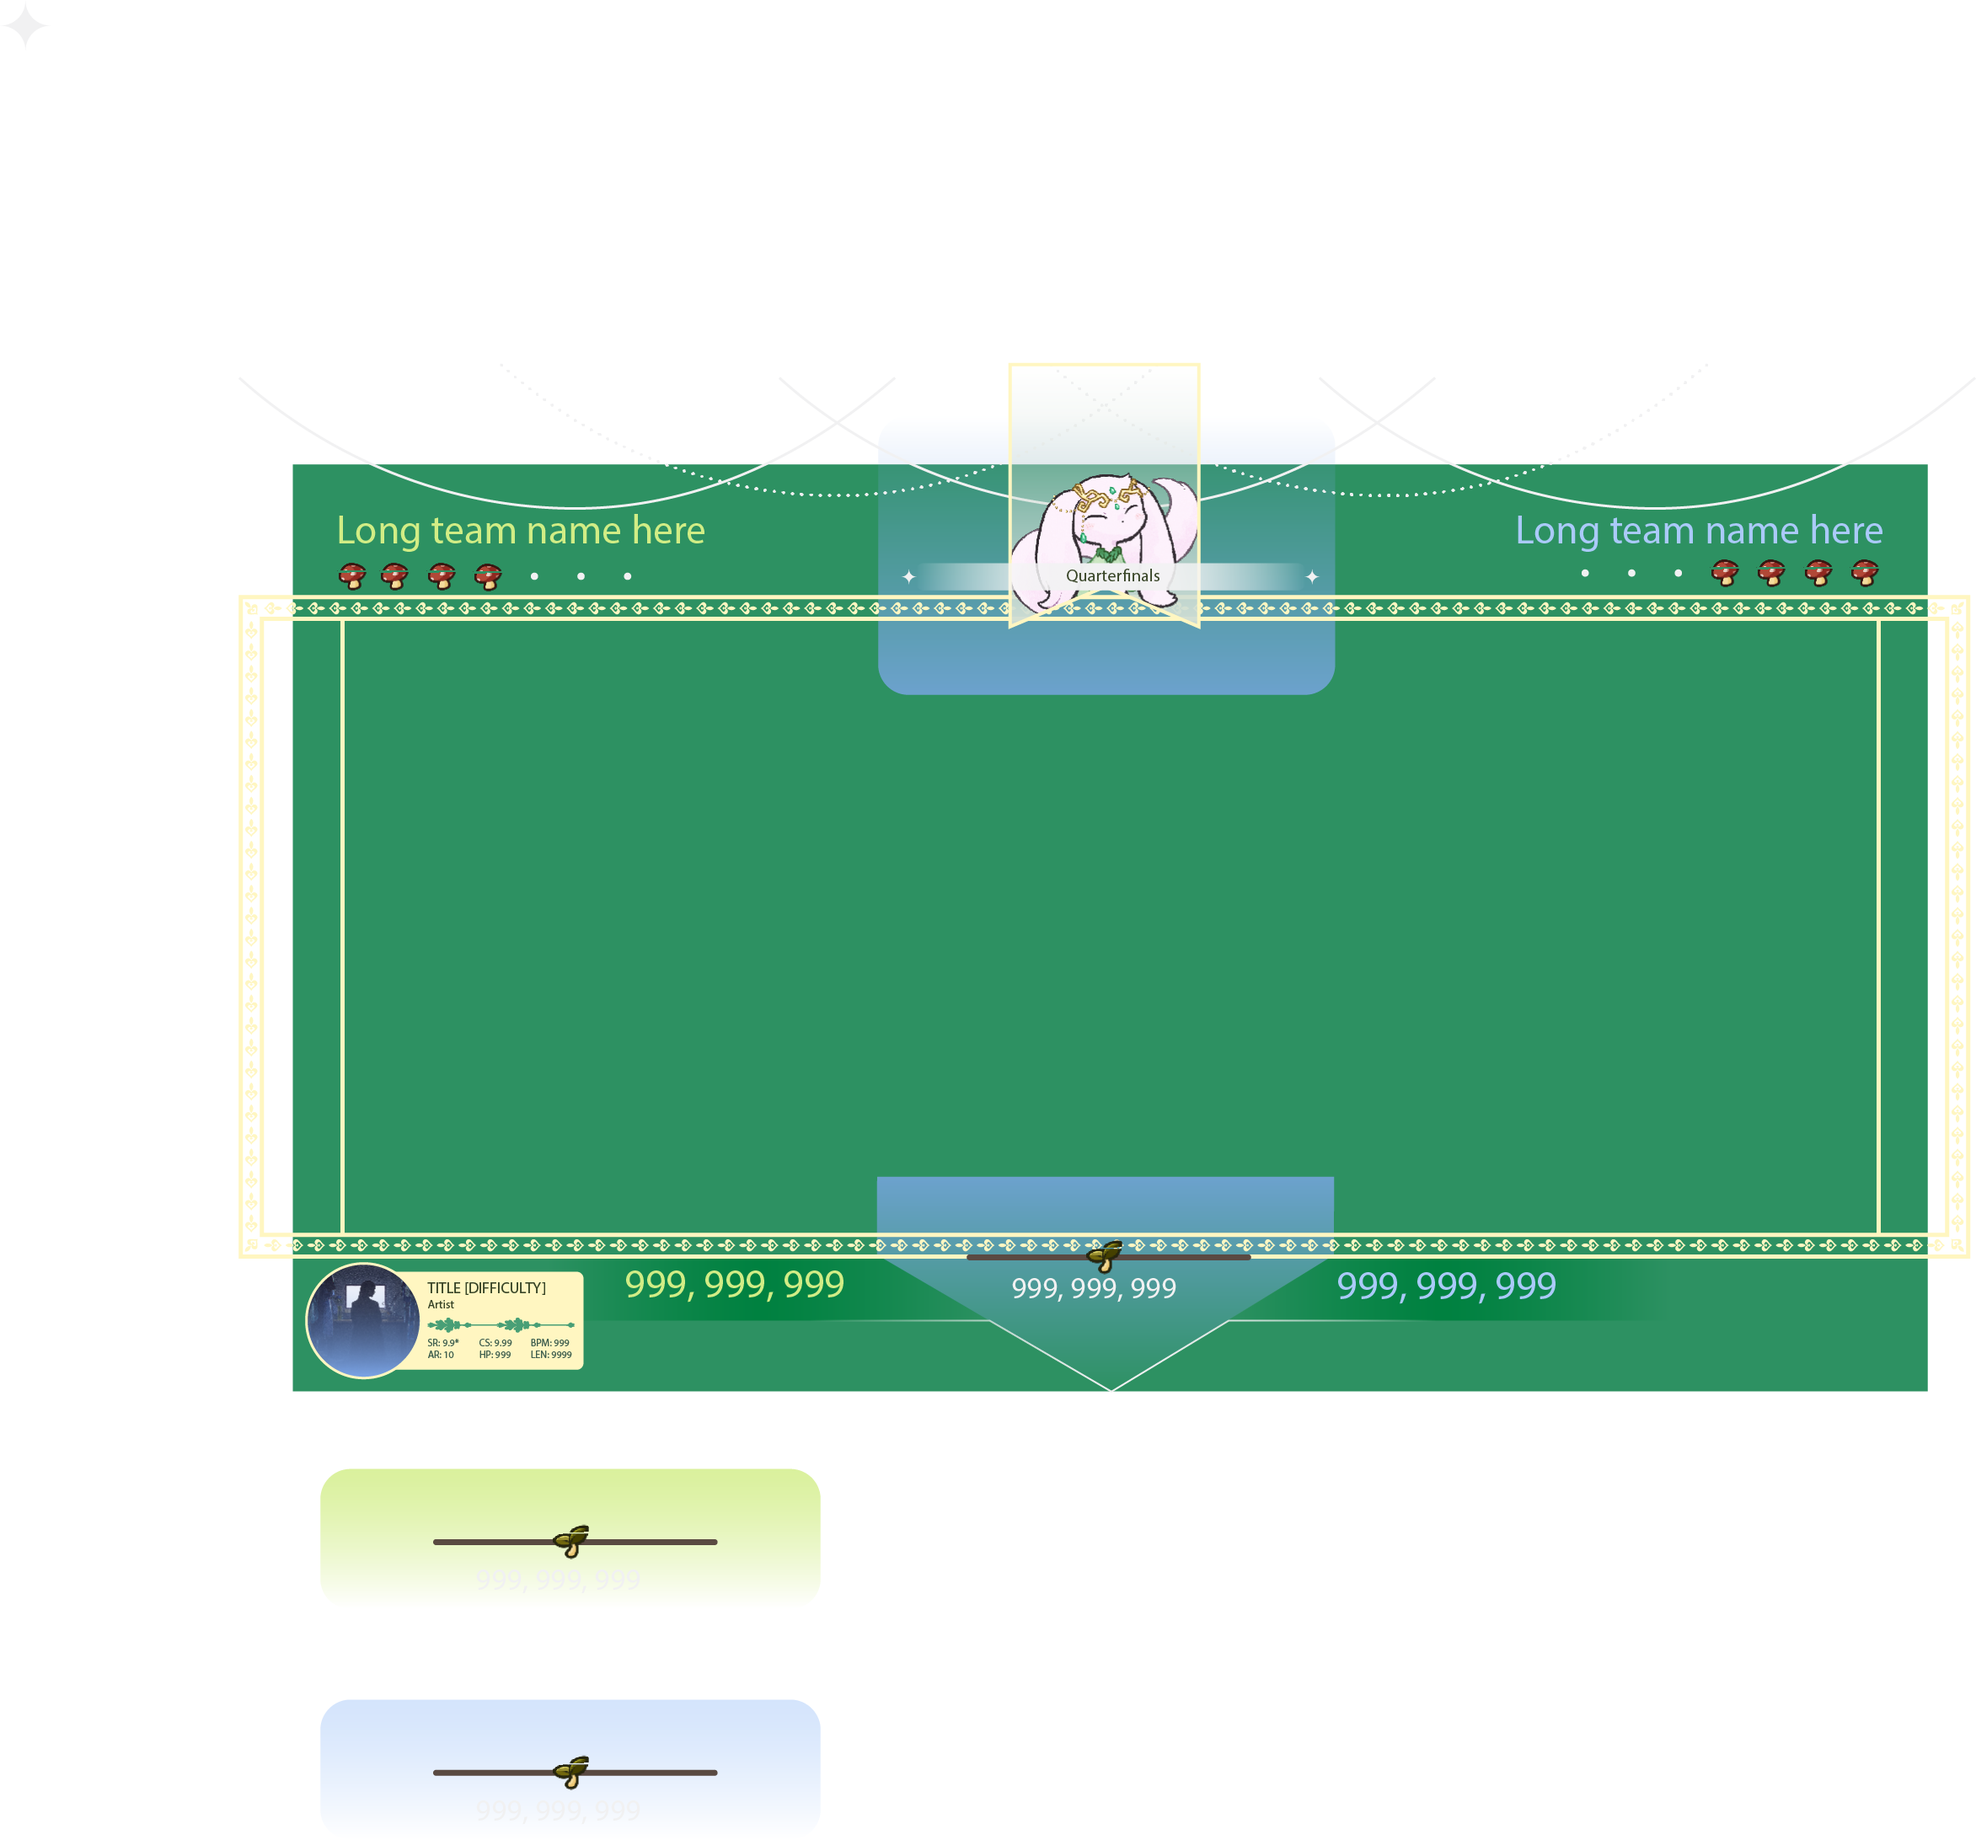
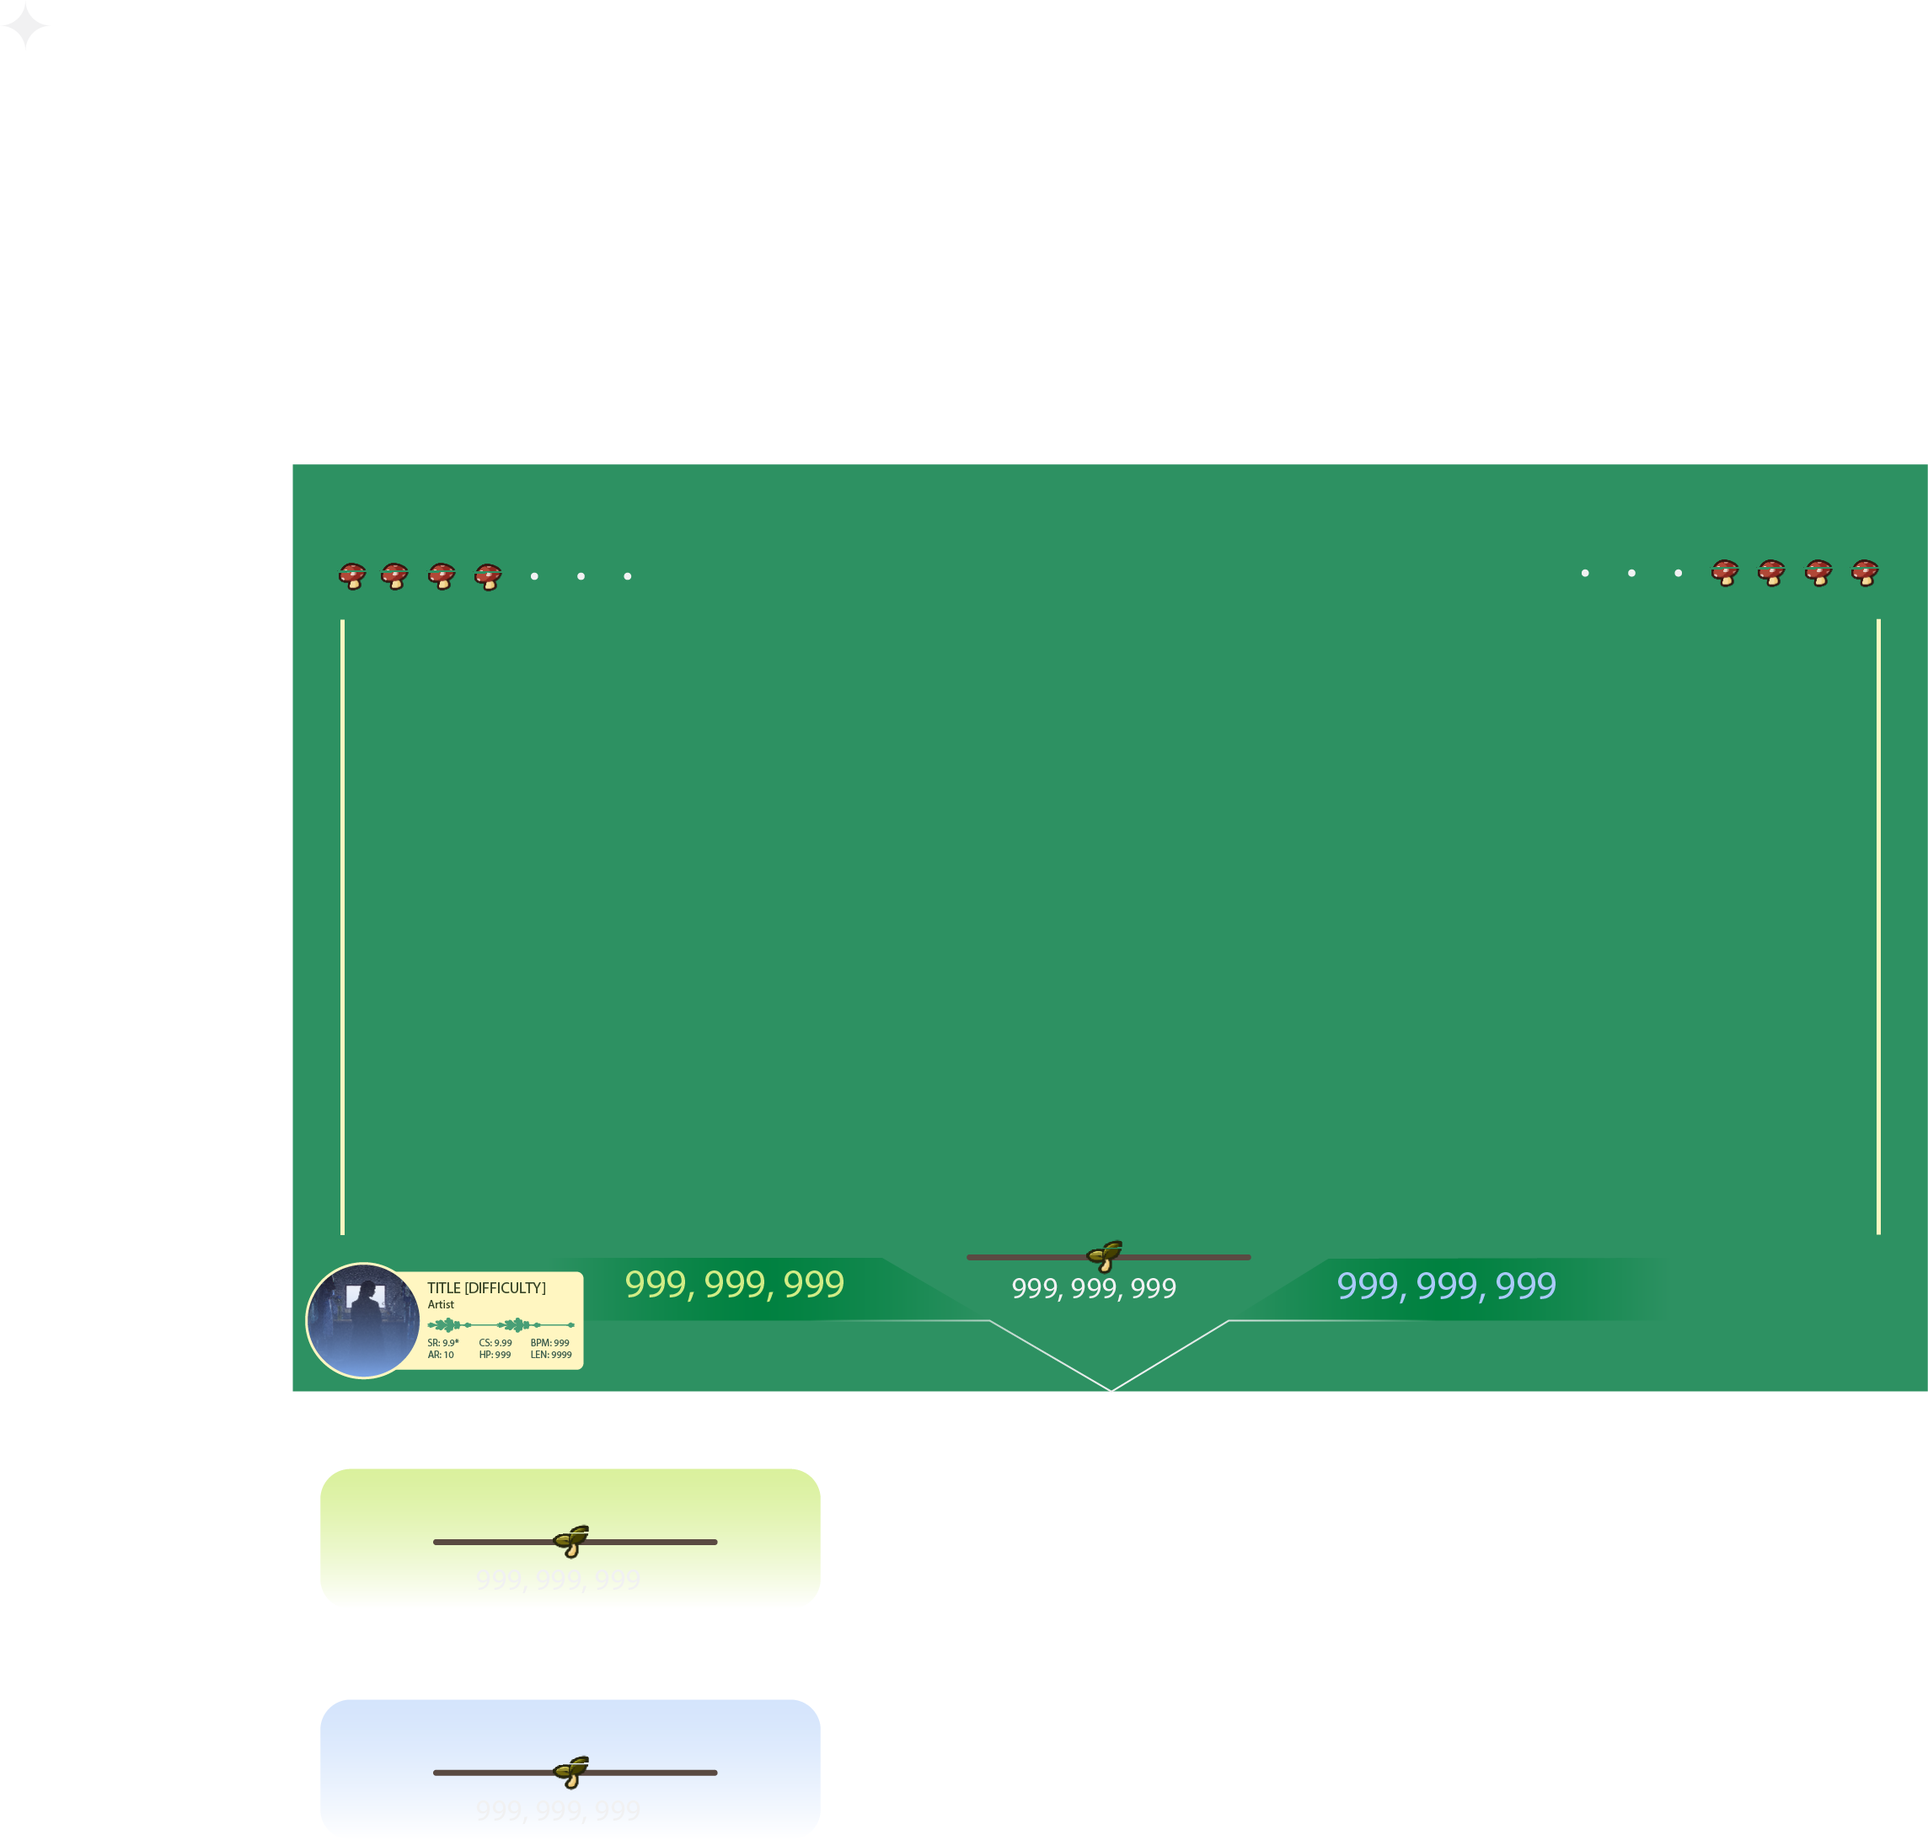
feat: bottom score background styling

diff --git a/main/style.css b/main/style.css
@@ -74,6 +74,7 @@
     top: 155px;
     left: 50%;
     transform: translateX(-50%);
+    z-index: 1;
 }
 /* Gameplay Background */
 .gameplay-background {
@@ -82,4 +83,29 @@
     height: 720px;
     top: 186px;
     background-color: red;
+    z-index: 1;
+}
+
+/* Bottom Triangle */
+.bottom-triangle {
+    position: absolute;
+    bottom: 0;
+    left: 953px;
+    transform: translateX(-50%);
+    width: 535px;
+}
+.bottom-score-section {
+    position: absolute;
+    bottom: 0;
+    left: 973px;
+    transform: translateX(-50%);
+}
+.middle-line {
+    position: absolute;
+    width: 2px;
+    height: 1080px;
+    top: 0;
+    left: 50%;
+    transform: translateX(-50%);
+    background-color: lightblue;
 }

diff --git a/main/index.html b/main/index.html
@@ -23,6 +23,11 @@
         <!-- Gameplay -->
         <img class="gameplay-border" src="static/gameplay-border.png">
         <div class="gameplay-background"></div>
+
+        <!-- Bottom Score Section -->
+        <img class="bottom-triangle" src="static/bottom-triangle.png">
+        <img class="bottom-score-section" src="static/bottom-score-border.png">
+        <div class="middle-line"></div>
     </div>
 </body>
 </html>
